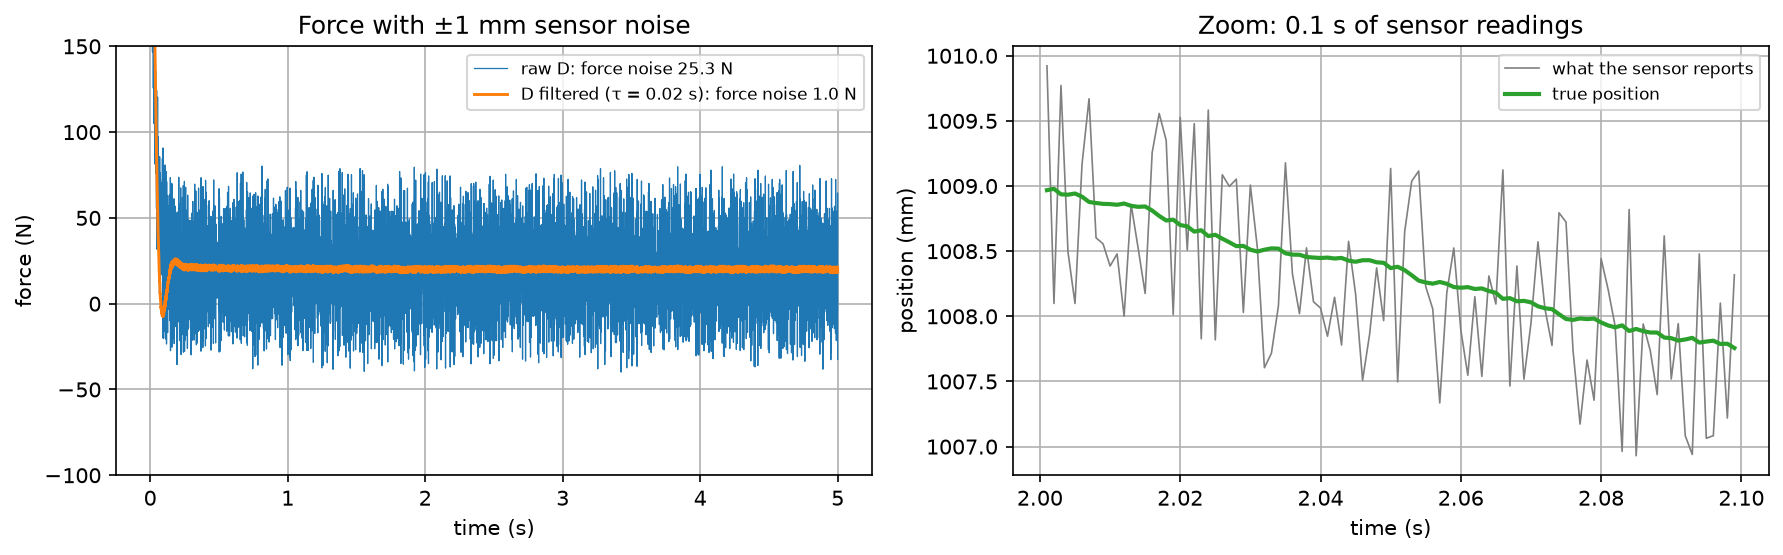
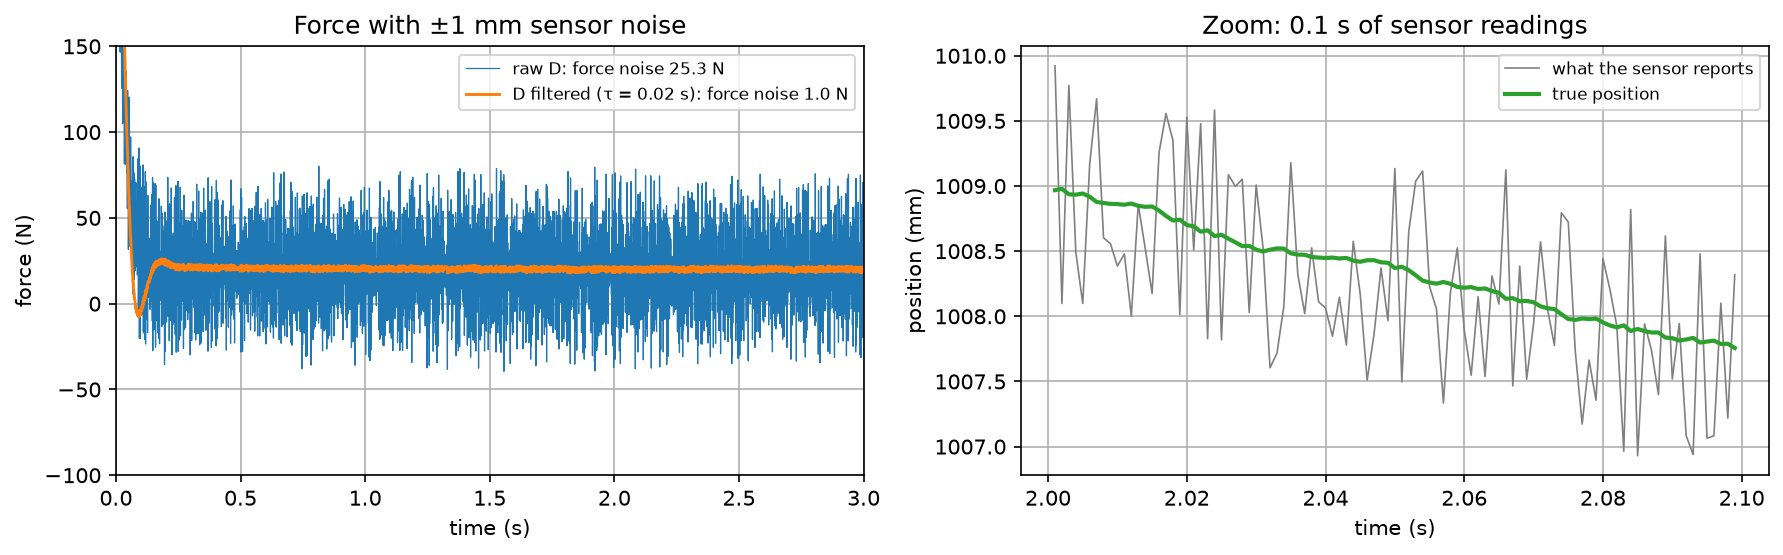
Add final-design figure, checks, README and requirements

diff --git a/checks.py b/checks.py
@@ -1,0 +1,83 @@
+"""Automatic checks: does my simulation agree with the theory?
+Run:  python checks.py     (every line should say PASS)
+"""
+import numpy as np
+from plant import simulate
+from pid import PID
+from metrics import metrics
+from tune import test, OS_MAX, SETTLE_MAX, NOISE_MAX
+
+m, c, k = 1.0, 10.0, 20.0
+failures = 0
+
+
+def check(name, value, expected, tol):
+    """PASS if value is within tol of expected."""
+    global failures
+    ok = abs(value - expected) <= tol
+    if not ok:
+        failures += 1
+    print(f"{'PASS' if ok else 'FAIL'} | {name:42s} | got {value:10.4f} | expected {expected:10.4f} ± {tol}")
+
+
+# 1. Open loop: force balance says x = u / k
+t, x, u = simulate(u=20.0, T=6.0)
+check("open loop final position = 20/20", x[-1], 20.0 / k, 0.001)
+
+# 2. P-only final position = Kp / (k + Kp)
+for kp in [20, 80, 180]:
+    t, x, u = simulate(pid=PID(kp, 0, 0), T=6.0)
+    check(f"P-only Kp={kp} final = Kp/(k+Kp)", x[-1], kp / (k + kp), 0.001)
+
+# 3. P-only overshoot matches the zeta formula
+kp = 180
+zeta = c / (2 * np.sqrt(m * (k + kp)))
+os_theory = 100 * np.exp(-np.pi * zeta / np.sqrt(1 - zeta**2))
+t, x, u = simulate(pid=PID(kp, 0, 0), T=6.0)
+rise, os_, settle, sse = metrics(t, x)
+check(f"P-only Kp={kp} overshoot vs formula (%)", os_, os_theory, 0.5)
+
+# 4. Adding I removes the steady-state error
+t, x, u = simulate(pid=PID(80, 100, 0), T=10.0)
+check("PI final error = 0", 1.0 - x[-1], 0.0, 0.001)
+
+# 5. At rest the integral alone holds the spring: I = k * r
+pid = PID(80, 100, 0)
+simulate(pid=pid, T=10.0)
+P, I, D = pid.history[-1]
+check("PI at rest: I term = k*r = 20 N", I, k * 1.0, 0.05)
+
+# 6. The motor limit is never exceeded
+pid = PID(300, 300, 30, u_min=-30, u_max=30, anti_windup=True)
+t, x, u = simulate(pid=pid, T=5.0)
+check("force never above 30 N", np.abs(u).max(), 30.0, 1e-9)
+
+# 7. Anti-windup reduces overshoot
+def overshoot(aw):
+    pid = PID(80, 100, 0, u_min=-30, u_max=30, anti_windup=aw)
+    t, x, u = simulate(pid=pid, T=10.0)
+    return metrics(t, x)[1]
+os_off, os_on = overshoot(False), overshoot(True)
+ok = os_on < os_off
+failures += not ok
+print(f"{'PASS' if ok else 'FAIL'} | {'anti-windup lowers overshoot':42s} | off {os_off:.2f} %  ->  on {os_on:.2f} %")
+
+# 8. D on measurement removes the derivative kick
+#    (target jumps 0 -> 1 at t = 0.5 s, so the controller sees the jump)
+def biggest_force(d_on):
+    pid = PID(300, 0, 30, d_on=d_on)
+    t, x, u = simulate(pid=pid, T=1.0, r_time=0.5)
+    return np.abs(u).max()
+kick_err, kick_meas = biggest_force("error"), biggest_force("measurement")
+ok = kick_meas < kick_err / 10
+failures += not ok
+print(f"{'PASS' if ok else 'FAIL'} | {'D on measurement removes the kick':42s} | error {kick_err:.0f} N  ->  measurement {kick_meas:.0f} N")
+
+# 9. My final gains still meet my targets
+rise, os_, settle, sse, nz = test(150, 300, 15)
+ok = os_ < OS_MAX and settle < SETTLE_MAX and nz < NOISE_MAX
+failures += not ok
+print(f"{'PASS' if ok else 'FAIL'} | {'final gains (150, 300, 15) meet targets':42s} | os {os_:.2f} %, settle {settle:.3f} s, noise {nz:.2f} N")
+
+print("\nALL CHECKS PASSED" if failures == 0 else f"\n{failures} CHECK(S) FAILED")
+raise SystemExit(failures)

diff --git a/make_figures.py b/make_figures.py
@@ -292,6 +292,35 @@ def fig13_zn():
     plt.close()
     print("saved fig13")
 
+def fig14():
+    """Final design: (150, 300, 15) with every real-world problem switched on."""
+    pid = PID(150, 300, 15, u_min=-30, u_max=30, anti_windup=True,
+              tau_d=0.02, d_on="measurement")
+    t, x, u = simulate(pid=pid, T=5.0, noise=0.001)
+    rise, os_, settle, sse = metrics(t, x)
+
+    fig, (ax1, ax2) = plt.subplots(2, 1, figsize=(8, 6), sharex=True)
+    fig.suptitle("Final design: Kp=150, Ki=300, Kd=15 (30 N limit, ±1 mm noise)")
+
+    ax1.plot(t, x, lw=2, label=f"position: rise {rise:.2f} s, overshoot {os_:.2f} %, settle {settle:.2f} s")
+    ax1.axhline(1.0, color="k", ls="--", label="target 1 m")
+    ax1.axhspan(0.98, 1.02, color="green", alpha=0.15, label="±2 % band")
+    ax1.axvline(settle, color="gray", ls=":", label=f"settled at {settle:.2f} s")
+    ax1.set_ylabel("position (m)")
+    ax1.legend(loc="lower right"); ax1.grid(True)
+
+    ax2.plot(t, u, lw=1, color="tab:red", label=f"motor force (noise {u[t > 4].std():.2f} N after settling)")
+    ax2.axhline(30, color="k", ls=":", label="30 N motor limit")
+    ax2.axhline(20, color="tab:green", ls="--", label="20 N = force to hold the spring at 1 m")
+    ax2.set_xlabel("time (s)"); ax2.set_ylabel("force (N)")
+    ax2.set_ylim(0, 35)
+    ax2.set_xlim(0, 3)       # simulate 5 s (to measure noise), show the first 3 s
+    ax2.legend(loc="lower right"); ax2.grid(True)
+
+    fig.tight_layout()
+    fig.savefig("figures/fig14_final.png", dpi=150)
+    plt.close(fig)
+
 
 if __name__ == "__main__":
     fig01_open_loop()
@@ -307,3 +336,4 @@ if __name__ == "__main__":
     fig11_period()
     fig12_ku()
     fig13_zn()
+    fig14()
